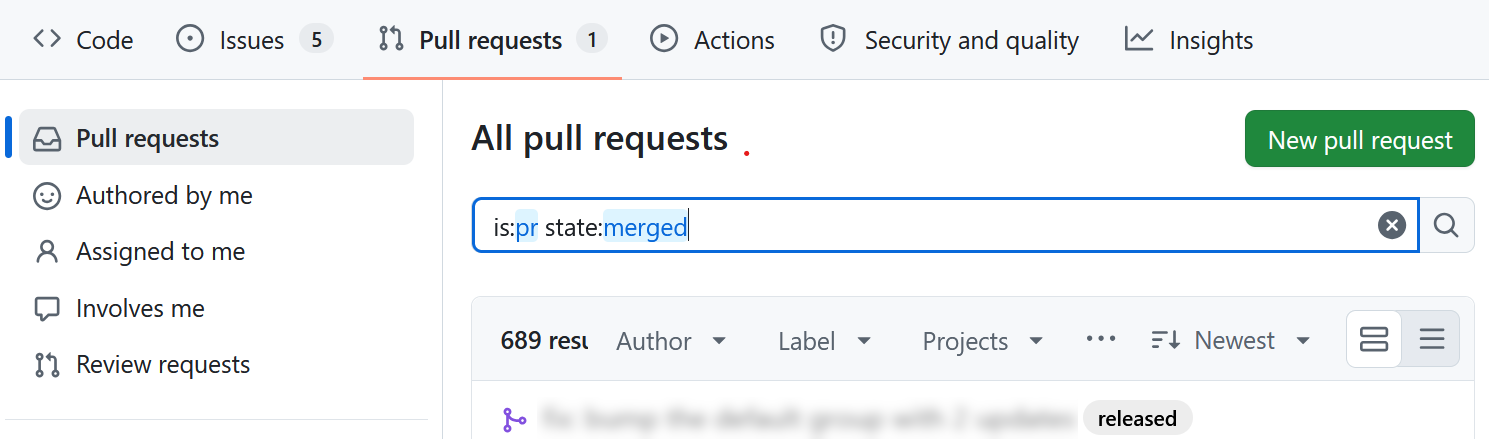
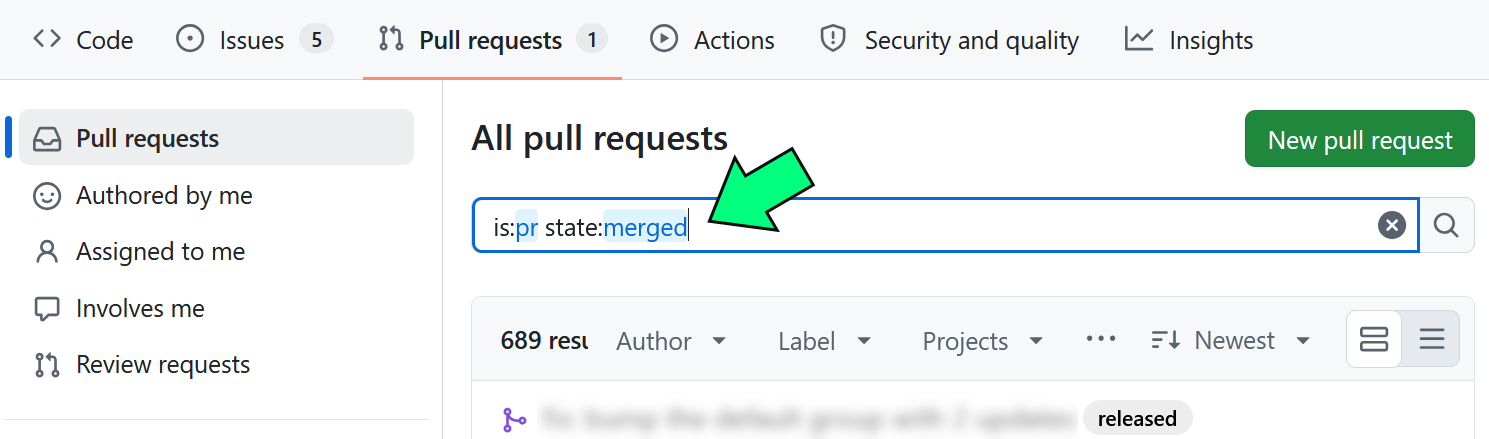
Updated draft Fixing Errors in a GitHub Pull Request, including adding some arrows to pictures and improved phrasing in some sections.  Also should fix an issue with a code block displaying incorrectly due to Liquid treating curly braces as commands.

Changed region(s): [[0.4634, 0.3257, 0.5561, 0.533]]

diff --git a/_pages/2016-10-13-draft.md b/_pages/2016-10-13-draft.md
@@ -12,35 +12,38 @@ tags:
   - commitlint
   - linting
   - open source
+  - debugging
   - software development
 ---
 
-When I submitted my first contribution to an open source project, my pull request unexpectedly failed, and it turned out to be a great learning opportunity! In this post, we'll go through the steps of diagnosing and fixing this specific failure, which will teach us a bit about GitHub Actions, linting, and how to investigate pull request problems.
+When I submitted my first contribution to an open source project, my pull request unexpectedly failed...and it turned out to be a great learning opportunity! In this post we'll go through the steps of diagnosing and fixing this specific failure, which will teach us a bit about GitHub Actions, linting, and how to investigate pull request problems.
 
-#### The Unexpected Error
-First, let's set the scene: after reading an open source project's Contributing doc, I [forked](https://docs.github.com/en/pull-requests/get-started/about-forks) the repository, made a simple change that fixed a broken link in the project's README, and then created a [pull request](https://docs.github.com/en/pull-requests/reference/pull-requests) with those changes. This result appeared in my pull request:
+###### The Unexpected Error
 
-![Messages in a GitHub PR: "1 failing check" heading, below it a red circle with an X and the message "Pull Request Checks / Lint (pull_request)".]({{ "/assets/images/failed_PR/01-some-checks-were-not-successful.png" | relative_url }}){: .align-center}
+First, let's set the scene: after reading an open source project's Contributing doc, I [forked](https://docs.github.com/en/pull-requests/get-started/about-forks) the repository, made a simple change that fixed a broken link in the project's README, and then created a [pull request](https://docs.github.com/en/pull-requests/reference/pull-requests) with those changes. Eventually I received a notification that the pull request had been updated, which is when I saw this:
+
+![GitHub pull request with a heading "1 failing check"; below it a red circle with an X and the message "Pull Request Checks / Lint (pull_request)".]({{ "/assets/images/failed_PR/01-some-checks-were-not-successful.png" | relative_url }}){: .align-center}
 
 My pull request was approved by the owner of the project, but it failed some of the required checks. In case this is your first time seeing something like this, some quick explanations are in order. If you have a project on GitHub, you can use [GitHub Actions](https://docs.github.com/en/actions/get-started/quickstart) to automate aspects of your build pipeline, such as automatically running tests against pull requests. That's exactly what has happened here, and my pull request didn't pass one of those tests.
 
-##### Workflows
+###### Workflows
 
 Let's see if we can get some more information about this failed test. If we click the ellipses to the right of the failed check, we'll get the option to "View details", which will take us to this page:
 
 ![The GitHub Actions page showing the failed workflow run. A red circle with an X shows us that the failure occurred in the "Lint Title" section.]({{ "/assets/images/failed_PR/02-workflow-run.png" | relative_url }}){: .align-center}
 
-This screen shows a summary of the workflow run that occurred when our pull request was created. If you're unfamiliar with workflows, you can basically think of them as a series of commands that get run in sequence whenever the workflow is triggered. It looks like everything went fine until it reached the "Lint Title" section.
+This screen shows a summary of the workflow run that occurred after our pull request was approved. If you're unfamiliar with workflows, you can basically think of them as a series of commands that get run in sequence. It looks like everything went fine with the run until it reached the "Lint Title" section.
 
-Unfortunately, the error itself doesn't contain any output. But we know the name of the section where the failure occurred, so let's see if we can find out what commands get run in that section by looking at the actual workflow file. We can check that out by clicking "Workflow file" in the lower left.
+Unfortunately, the error message seems to be empty, meaning we'll have to dig deeper to figure out what went wrong. We know the name of the section where the failure occurred, so let's see if we can find out what commands get run in that section by looking at the actual workflow file. We can check that out by clicking "Workflow file" in the lower left.
 
-![A screen capture of the first 30 lines of the workflow file.]({{ "/assets/images/failed_PR/03-workflow-file.png" | relative_url }}){: .align-center}
+![A GitHub screen capture of the first 30 lines of the workflow file, with a green arrow pointing towards the section with "Lint Title".]({{ "/assets/images/failed_PR/03-workflow-file.png" | relative_url }}){: .align-center}
 
 The full workflow contains over 100 lines, but in this screen capture we can see the part that we care about: Lint Title. Let's give it our full attention:
 
 	- name: Lint Title
-		env:
-			TITLE: ${{ github.event.pull_request.title }}
+		env: {% comment %} The below needs to be escaped with the raw tag to prevent Liquid treating the curly braces as commands to run. {% endcomment %}
+			TITLE: ${% raw %}{{{% endraw %} github.event.pull_request.title }}
+			{% raw %}TITLE: ${{ github.event.pull_request.title }}{% endraw %}
 		run: npx --no-install commitlint <<< "$TITLE"
 
 I wasn't immediately certain what every single part of this was doing, but with some web searching I was able to verify what I intuited and learn what I hadn't. First, an [environment variable](https://docs.github.com/en/actions/how-tos/write-workflows/choose-what-workflows-do/use-variables) named `TITLE` is being initialized with the [title of our pull request](https://stackoverflow.com/questions/71688092/how-to-get-the-title-of-a-pull-request-with-github-actions). After that, [commitlint](https://github.com/conventional-changelog/commitlint#what-is-commitlint) is being run, and the value of `TITLE` is [being fed into](https://stackoverflow.com/questions/7950268/what-does-the-bash-operator-i-e-triple-less-than-sign-mean) commitlint as input. The `npx` is just a [way of running the commitlint package](https://docs.npmjs.com/cli/v9/commands/npx/?v=true), and the flag `--no-install` is a deprecated form of `--no`, which [suppresses a prompt for input](https://docs.npmjs.com/cli/v9/commands/npx/?v=true).
@@ -49,9 +52,9 @@ So in summary, a program called commitlint is doing something — presumably lin
 
 ###### Linting
 
-In case this is your first time encountering the concept of linting, linting is the process of analyzing text — usually code — to ensure that it meets certain standards. Linting can be used to check functional aspects of code like whether it will actually compile, but it can also be used to enforce a project's stylistic standards related to things like line length, spacing and indentation, etc.
+In case this is your first time encountering the concept of linting, linting is the process of analyzing text — usually code — to ensure that it meets certain standards. Linting can be used to check functional aspects of code like whether it will actually compile, but it can also be used to enforce a project's stylistic standards related to things like line length, spacing, naming conventions, etc.
 
-If the title of our pull request is being linted, we'll need to know the rules its being judged by. According to the [commitlint documentation](https://commitlint.js.org/reference/configuration.html), the configuration gets retrieved from one of several different files. It's common for configuration files to be stored in a project's root directory, so let's check to see if one exists:
+If the title of our pull request is being linted, we'll need to know the rules it's being judged by. According to the [commitlint documentation](https://commitlint.js.org/reference/configuration.html), the configuration gets retrieved from one of several different files. It's common for configuration files to be stored in a project's root directory, so let's check to see if one exists:
 
 ![A list of files and folders for the project's root directory, with a green arrow pointing towards ".commitlintrc.mjs".]({{ "/assets/images/failed_PR/04-commitlint-config-find.png" | relative_url }}){: .align-center}
 
@@ -70,53 +73,53 @@ Sure enough, a file named `.commitlintrc.mjs` is right where we'd expect it to b
 
 According to that [configuration documentation](https://commitlint.js.org/reference/configuration.html#configuration-object-example), it looks like this config overrides one rule by setting `body-max-line-length` to 0, but other than that it uses the conventions in `@commitlint/config-conventional`. Thankfully, the top search result for the latter term is the [npm page containing its documentation](https://www.npmjs.com/package/@commitlint/config-conventional), which explains all of the rules our pull request title is being checked against. Armed with these rules, we should be able to figure out where the problems are happening. The title of the pull request was:
 
-	Updated links in README.md's File structure section from .mjs to .ts.
+`Updated links in README.md's File structure section from .mjs to .ts.`
+{: style="text-align: center;"}
 
-If you want to, as an exercise you can go through the rules on your own to find each of the ways this title is falling short of these standards. While the rules page contains multiple references and links to Conventional Commits, be aware that `@commitlint/config-conventional` contains additional rules that aren't part of Conventional Commits. That said, the [Conventional Commits page](https://www.conventionalcommits.org/en/v1.0.0/) is quite helpful since it explains some of the terminology used in the rules.
+If you want, as an exercise you can go through the rules on your own to find each of the ways this title is breaking them. While the rules page contains multiple references and links to Conventional Commits, be aware that `@commitlint/config-conventional` contains additional rules that aren't part of Conventional Commits. That said, the [Conventional Commits page](https://www.conventionalcommits.org/en/v1.0.0/) is quite helpful since it explains some of the terminology used in the rules.
 
 So as you may have discovered, our title fails most of the rules related to type and subject. The title should start with one of several pre-approved types, then there should be a colon, then there should be consistent capitalization in accordance with the `subject-case` rule, and finally the title should NOT end with a period. We did successfully abide by the `body-max-line-length: 0` override by not having any body, though!
 
-### Fixing the Pull Request Title
+###### Fixing the Pull Request Title
 
-Now that we know what rules we need to follow, we could go fix the title of our pull request. But before we do that, there's one more thing we might want to consider doing: taking a quick look at successful pull requests in this project. By doing this we'll get a better idea of what the norms are for this project, some of which may not be hard-coded into linting rules. To do this, we go to the project's page on GitHub, then click the "Pull requests" tab towards the top of the page. The Pull Requests page will generally start with a filter that only shows open pull requests, but we'll change it to `is:pr state:merged`, which will allow us to see pull requets that were successfully merged into the project.
+Now that we know what rules we need to follow, we could go fix the title of our pull request. But before we do that, there's one more thing we might want to consider doing: taking a quick look at successful pull requests in this project. By doing this we'll get a better idea of what the norms are for this project, some of which may not be hard-coded into linting rules. To do this, we go to the project's page on GitHub, then click the "Pull requests" tab towards the top of the page. The Pull Requests page will generally start with a filter that only shows open pull requests, but we'll change it to `is:pr state:merged`, which will allow us to see closed pull requests that were successfully merged into the project.
 
-![GitHub UI showing the pull requests page with the aforementioned filter applied.]({{ "/assets/images/failed_PR/05-view-pull-requests.png" | relative_url }}){: .align-center}
+![GitHub UI showing the pull requests page with the aforementioned filter applied, with a green arrow pointing towars the filter text.]({{ "/assets/images/failed_PR/05-view-pull-requests.png" | relative_url }}){: .align-center}
 
 Next, we can finally update the title of our pull request. If we return to the page for our specific pull request, right after the pull request's title there's a number and a pencil icon. By clicking the pencil icon, we can edit the name of our pull request.
 
-![The title of our pull request in the GitHub UI, with the pencil icon at the end.]({{ "/assets/images/failed_PR/06-edit-pr-title.png" | relative_url }}){: .align-center}
+![The title of our pull request in the GitHub UI, with a the pencil icon at the end and a green arrow pointing towards it.]({{ "/assets/images/failed_PR/06-edit-pr-title.png" | relative_url }}){: .align-center}
 
-The finalized title of the pull request is:
+The new and improved title of the pull request is:
 
-	docs(readme): file structure section .mjs -> .ts
+`docs(readme): file structure section .mjs -> .ts`
+{: style="text-align: center;"}
 
-This title meets all of the requirements! So why aren't we done yet? Why are there so many words below this? It's because there's one additional problem that I initially missed. If you looked over some of the documentation I linked, maybe you caught it?
+This title meets all of the requirements. So why aren't we done yet? Why are there so many words below this? It's because there's one additional problem that I initially missed. If you looked over some of the documentation I linked, maybe you caught it?
 
-### Fixing the Commit Message
+###### Fixing the Commit Message
 
-Quite simply, commitlint is a utility that lints commit messages. Yes, the title of our pull request _is_ being fed into commitlint, and it _is_ getting linted. But it's not the only thing getting linted; commitlint is also linting the Git commit message associated with our pull request. And as you might expect, my initial commit message — which was identical to the pull request title — did not meet the linter's standards.
+The primary purpose of commitlint is to lint commit messages. Yes, the title of our pull request _is_ being fed into commitlint, and it _is_ getting linted. But it's not the only thing getting linted; commitlint is also linting the Git commit message associated with our pull request. And as you might expect, our initial commit message — which was identical to the pull request title — did not meet the linter's standards.
 
 Luckily, we've already done most of the work. We know what to change the commit message to, now we just need to change it.  Because the changes in our pull request are the most recent changes we made to our forked repository, we can do that by following these steps:
 
 1. [Clone](https://docs.github.com/en/repositories/creating-and-managing-repositories/cloning-a-repository) a local copy of our fork.
 2. Open a local command window to the base directory of our cloned repository.
-3. If our changes were in a [branch](https://www.w3schools.com/git/git_branch.asp), we want to be working in that branch by using the `git checkout BRANCH-NAME-HERE`.
+3. If our changes were in a [branch](https://www.w3schools.com/git/git_branch.asp), we want to be working in that branch by using `git checkout BRANCH-NAME-HERE`.
 4. Enter the command `git commit --amend`.
-5. A text editor will open. In the text editor, edit your commit message.
+5. A text editor will open. In the text editor, we edit our commit message.
 6. Save and then close the editor. The commit message has now been changed locally.
 7. To push this change to our remote fork, use the command `git push --force-with-lease origin BRANCH-NAME-HERE`.
 	- If you aren't using a branch or don't know the name of your branch, use `git branch --all`; the text beside the asterisk is what you'll type instead of `BRANCH-NAME-HERE`.
 
-### Resolution
+###### Resolution
 
-After completing these steps, I went back to GitHub and the commit associated with my pull request had been updated, which was immediately reflected in my pull request as well. I double-checked everything to make sure everything was in order, then requested another review of my pull request by clicking the refresh icon in the upper-right corner of the pull request page.
+After completing these steps, I went back to GitHub to see that my pull request already contained the updated commit message. I gave everything one last double-check, then I requested another review of my pull request by clicking the refresh icon in the upper-right corner of the pull request page.
 
 ![The GitHub pull request UI showing reviewers, with a green arrow pointing towards the refresh icon on the right side.]({{ "/assets/images/failed_PR/07-reviewers.png" | relative_url }}){: .align-center}
 
-Later in the day my changes were approved, which triggered a new workflow run. All of the checks passed, and my change was merged into the official project.
+Later in the day my changes were approved, which triggered a new workflow run. All of the checks passed, and my change was merged into the official project. I had now successfully contributed to an open source project!
 
 ![GitHub pull request UI that says "Pull request successfully merged and closed" and underneath it "You're all set — the branch has been merged."]({{ "/assets/images/failed_PR/08-successfully-merged.png" | relative_url }}){: .align-center}
 
-When I first made my pull request, I had only intended to make a simple update to some outdated documentation. But by trying to contribute even in this basic way, I ended up facing unexpected challenges and learning a great deal. I hope that by recording some of that process in this post, it might help someone to find a solution to a similar issue, or perhaps encourage someone to try to make their own contribution to open source.
-
-Thanks for reading!
+When I initially created my pull request, I had only intended to make a simple update to some outdated documentation. But by trying to contribute even in this basic way, I ended up facing unexpected challenges and learning a great deal. I hope that by sharing some of that process in this post, it might help someone to find a solution to a similar issue they're facing.
